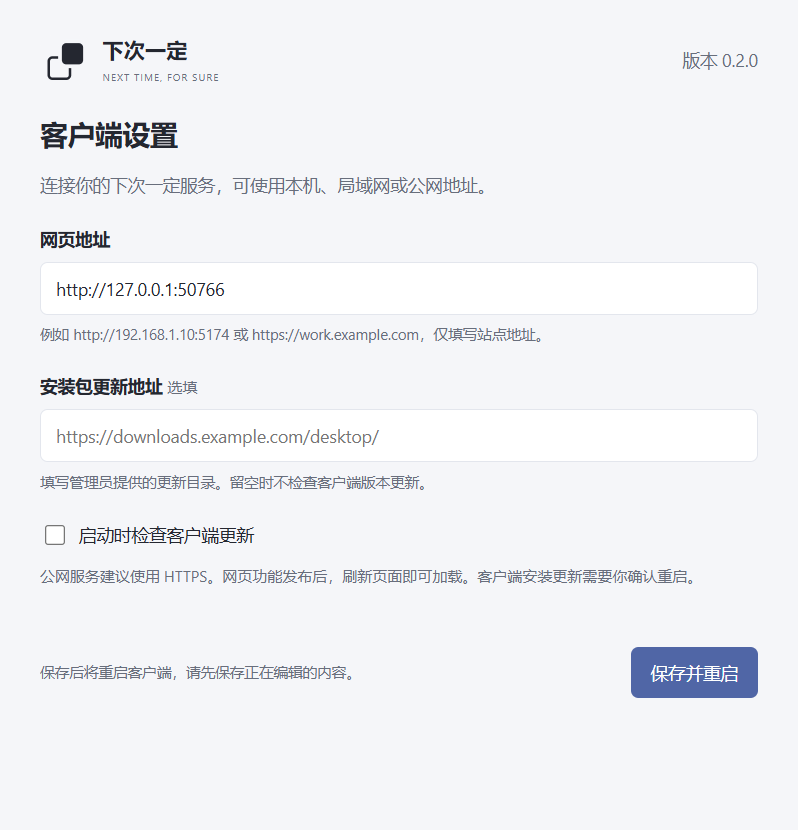
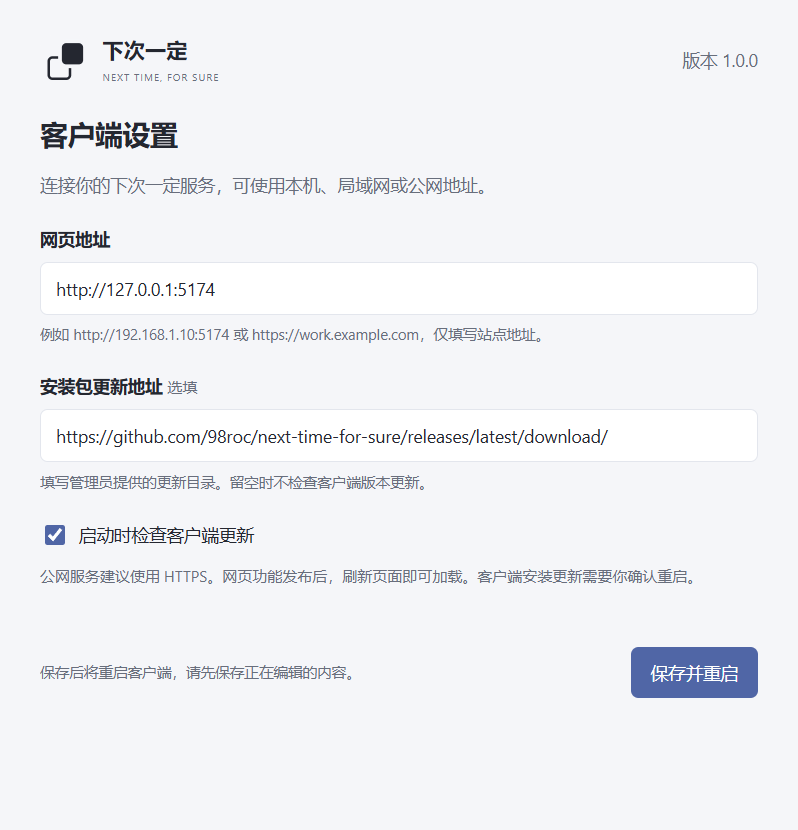
release(desktop): publish version 1.0.0

diff --git a/docs/development/桌面配置与版本更新记录.md b/docs/development/桌面配置与版本更新记录.md
@@ -1,6 +1,6 @@
 # 桌面配置与版本更新记录
 
-日期：2026-10-15。桌面版本：0.2.0。使用方法见[桌面与Agent使用说明](桌面与Agent使用说明.md#windows客户端)。
+日期：2026-10-15。桌面版本：1.0.0。使用方法见[桌面与Agent使用说明](桌面与Agent使用说明.md#windows客户端)。
 
 ## 交付范围
 
@@ -17,10 +17,10 @@
 - TypeScript编译、桌面定向ESLint检查通过；桌面10项测试通过，覆盖地址校验、持久化、站点隔离、重复操作、稍后安装及失败重试。
 - 真实Electron隔离用户目录验证设置加载、业务网页无配置接口、阻止外站跳转、设置IPC校验与持久化、保存后正常退出。见[运行记录](evidence/desktop-update-runtime.json)和[设置窗口](evidence/desktop-settings.png)。测试抑制自动重启以避免遗留进程。
 - 实际`NsisUpdater`和Electron网络请求访问本地静态更新目录，下载本次生成的完整安装包并验证SHA-512；拒绝相同版本、降级及错误校验值。见[更新下载记录](evidence/desktop-update-feed.json)。测试仅以隔离的应用适配器提供旧版本号，不执行安装程序。
-- Windows x64 NSIS安装包、blockmap与latest.yml构建成功；可执行文件资源中ProductName及FileDescription为“下次一定”，版本为0.2.0.0。
+- Windows x64 NSIS安装包、blockmap与latest.yml构建成功；可执行文件资源中ProductName及FileDescription为“下次一定”，版本为1.0.0.0。
 
 ## 证据边界
 
-尚未执行真实用户安装目录上的覆盖安装及重启后版本回读；没有验证公网业务服务器部署或局域网业务登录。安装包未签名。原0.1.0无更新能力，首次升级需手动安装0.2.0。
+尚未执行真实用户安装目录上的覆盖安装及重启后版本回读；没有验证公网业务服务器部署或局域网业务登录。安装包未签名。原0.1.0无更新能力，首次升级需手动安装1.0.0。
 
 发布附件与源码的GitHub可用性以实际Release为准，不由本地构建结果代替。数据库、网页业务及外部Agent没有因本次桌面变更重新做全面验收。

diff --git a/docs/development/桌面与Agent使用说明.md b/docs/development/桌面与Agent使用说明.md
@@ -67,7 +67,7 @@ NTFS_TOKEN_FILE = 'G:\work\project\next-time-for-sure\.agent-token.local'
 
 启动检查与菜单“检查更新”共用流程：发现新版本后确认下载，菜单及任务栏显示下载进度，下载完成后确认重启安装。“稍后”不会安装，普通退出也不自动安装；可稍后点击菜单中的“重启安装”。更新期间继续使用网页，失败后当前版本继续可用，可重新检查重试。开发模式不下载或安装更新。
 
-首次从不具备更新入口的`0.1.0`升级到`0.2.0`，需要手动运行新版安装包。后续版本使用更新目录分发：
+首次从不具备更新入口的`0.1.0`升级到`1.0.0`，需要手动运行新版安装包。后续版本使用更新目录分发：
 
 1. 修改`apps/desktop/package.json`的版本号，必须高于已发布版本；执行上述`package`命令。
 2. 在项目GitHub仓库创建对应版本的Release，将`apps/desktop/release/`内的`NextTimeForSure-<版本>-Setup.exe`、对应`.blockmap`及`latest.yml`作为附件上传，确认完整后发布为最新稳定版。使用自建更新目录时，先上传安装文件，最后发布`latest.yml`。保持生成文件原名，不手工修改校验值。
